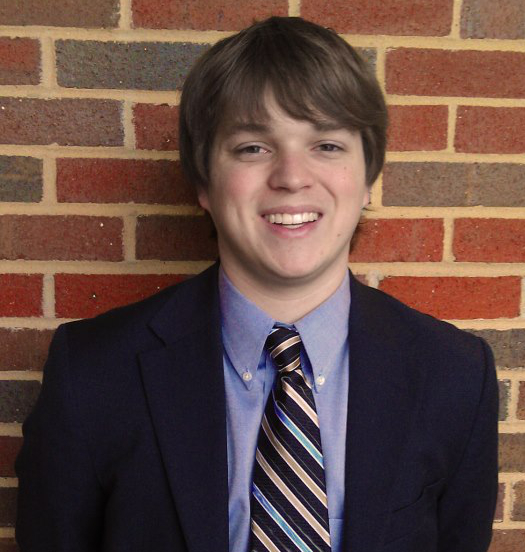
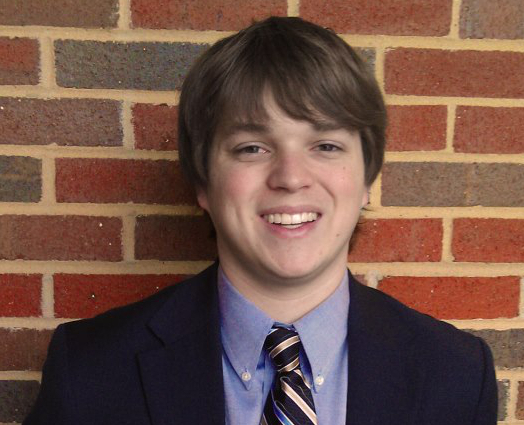
add about me information, fix glitch image size and css

diff --git a/about.html b/about.html
@@ -25,7 +25,7 @@
       <div class="nav-bar right">
        <ul class="button-group">
          <li><a href="index.html" class="button">Home</a></li>
-         <li><a href="#" class="button">Link 2</a></li>
+         <li><a href="about.html" class="button">About Me</a></li>
          <li><a href="#" class="button">Link 3</a></li>
          <li><a href="#" class="button">Link 4</a></li>
         </ul>
@@ -46,46 +46,44 @@
     <div class="large-12 columns" role="content">
       <article>
  
-        <h3><a href="#">Blog Post Title</a></h3>
-        <h6>Written by <a href="#">John Smith</a> on August 12, 2012.</h6>
- 
+        <h3><a href="http://whiteboard-it.com" target="_blank">Current Position</a></h3>
+        <h6>Whiteboard it - Software Developer</h6>
+        <h7>February 2013 - Present</h7>
         <div class="row">
           <div class="large-12 columns">
-            <p>Bacon ipsum dolor sit amet nulla ham qui sint exercitation eiusmod commodo, chuck duis velit. Aute in reprehenderit, dolore aliqua non est magna in labore pig pork biltong. Eiusmod swine spare ribs reprehenderit culpa.</p>
-            <p>Boudin aliqua adipisicing rump corned beef. Nulla corned beef sunt ball tip, qui bresaola enim jowl. Capicola short ribs minim salami nulla nostrud pastrami.</p>
-          </div>
-          <div class="large-12 columns">
-            <img src="http://placehold.it/400x240&text=[img]" />
-          </div>
+            <ul>
+              <li>Website development using language skills in HTML 5, CSS, JQuery, PHP, ASPX, and ASP.
+              </li>
+              <li>WordPress custom site development
+              </li>
+              <li>Git proficiency and utilization for project source control management
+              </li>
+              <li>Quality assurance testing for multiple clients and projects
+              </li>
+          </ul>
+          </div> 
         </div>
- 
-        <p>Pork drumstick turkey fugiat. Tri-tip elit turducken pork chop in. Swine short ribs meatball irure bacon nulla pork belly cupidatat meatloaf cow. Nulla corned beef sunt ball tip, qui bresaola enim jowl. Capicola short ribs minim salami nulla nostrud pastrami. Nulla corned beef sunt ball tip, qui bresaola enim jowl. Capicola short ribs minim salami nulla nostrud pastrami.</p>
- 
-        <p>Pork drumstick turkey fugiat. Tri-tip elit turducken pork chop in. Swine short ribs meatball irure bacon nulla pork belly cupidatat meatloaf cow. Nulla corned beef sunt ball tip, qui bresaola enim jowl. Capicola short ribs minim salami nulla nostrud pastrami.</p>
- 
       </article>
  
       <hr />
  
       <article>
  
-        <h3><a href="#">Blog Post Title</a></h3>
-        <h6>Written by <a href="#">John Smith</a> on August 12, 2012.</h6>
+        <h3>Business Analyst at Energen, University of Alabama MIS Programs</h3>
+        <h6>August 2012 - December 2012</h6>
  
         <div class="row">
-          <div class="large-6 columns">
-            <p>Bacon ipsum dolor sit amet nulla ham qui sint exercitation eiusmod commodo, chuck duis velit. Aute in reprehenderit, dolore aliqua non est magna in labore pig pork biltong. Eiusmod swine spare ribs reprehenderit culpa.</p>
-            <p>Boudin aliqua adipisicing rump corned beef. Nulla corned beef sunt ball tip, qui bresaola enim jowl. Capicola short ribs minim salami nulla nostrud pastrami.</p>
+          <div class="large-12 columns">
+            <ul>
+              <li>Designed mockups and wireframes for Alagasco mobile platform customer support tool
+              </li>
+              <li>Completed competitor assessment to analyze the energy sector market for mobile platform tools
+              </li>
+              <li>Designed interfaces to utilize coupons and rebates for customer deals
+              </li>
+            </ul>
           </div>
-          <div class="large-6 columns">
-            <img src="http://placehold.it/400x240&text=[img]" />
-          </div>
-        </div>
- 
-        <p>Pork drumstick turkey fugiat. Tri-tip elit turducken pork chop in. Swine short ribs meatball irure bacon nulla pork belly cupidatat meatloaf cow. Nulla corned beef sunt ball tip, qui bresaola enim jowl. Capicola short ribs minim salami nulla nostrud pastrami. Nulla corned beef sunt ball tip, qui bresaola enim jowl. Capicola short ribs minim salami nulla nostrud pastrami.</p>
- 
-        <p>Pork drumstick turkey fugiat. Tri-tip elit turducken pork chop in. Swine short ribs meatball irure bacon nulla pork belly cupidatat meatloaf cow. Nulla corned beef sunt ball tip, qui bresaola enim jowl. Capicola short ribs minim salami nulla nostrud pastrami.</p>
- 
+        </div> 
       </article>
  
     </div>

diff --git a/css/indexpage.css b/css/indexpage.css
@@ -1,7 +1,7 @@
 .activeGlitch{
-background-image:url("../img/Madison1crop.jpg");
+background-image:url("../img/madison1crop.jpg");
 background-repeat: no-repeat;
-height: 485px;
+height: 435px;
 width: 526px;
 margin-left: auto;
 margin-right: auto;
@@ -12,5 +12,5 @@ padding-right: 54%;
 }
 .activeGlitch:hover{
 	
-	background-image:url("../img/glitched-imagecrop.png");
+	background-image:url("../img/glitch2.png");
 }
